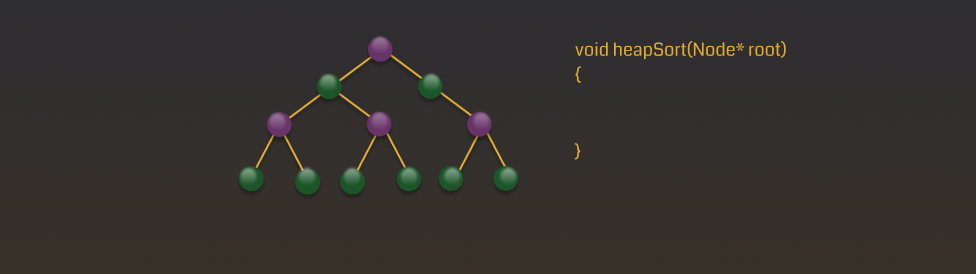
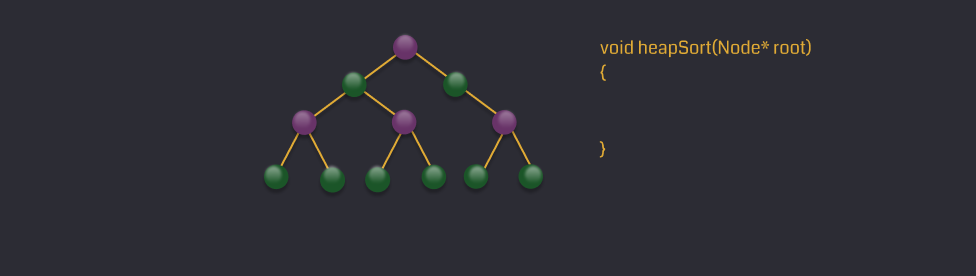
Removed gradient

Changed region(s): [[0.2459, 0.1168, 0.5533, 0.7007], [0.584, 0.146, 0.8299, 0.2044]]

diff --git a/_sass/_base.scss b/_sass/_base.scss
@@ -1,12 +1,7 @@
 body {
-	 background: #292B37; /* For browsers that do not support gradients */
-    background: -webkit-linear-gradient(#292B37, #473714); /* For Safari 5.1 to 6.0 */
-    background: -o-linear-gradient(#292B37, #473714); /* For Opera 11.1 to 12.0 */
-    background: -moz-linear-gradient(#292B37, #473714); /* For Firefox 3.6 to 15 */
-    background: linear-gradient(#292B37, #473714); /* Standard syntax */
+	background: #2C2C34; /* For browsers that do not support gradients */
 	font-family: 'Raleway', sans-serif;
 }
-
 
 .site-default {
 	text-align: center;
@@ -110,16 +105,15 @@ h3#intro-2 {
 	.button-wrapper #i1 {
 		border-radius: 40px;
 		padding: 8px 20px;
+		-webkit-appearance: none;
 	}
 
 	.button-wrapper #b2 {
 		font-size: 18px;
 		padding: 4px 48px;
+		-webkit-appearance: none;
 	}
 
-	.notice {
-		margin-bottom: 200px;
-	}
 	.notice img{
 		height: 20px;
 	}
@@ -147,8 +141,5 @@ h3#intro-2 {
 
   	img#landing-img {
 		width: 100%;
-	}
-	.notice {
-		margin-bottom: 400px;
 	}
 }

diff --git a/_sass/_layout.scss b/_sass/_layout.scss
@@ -46,3 +46,4 @@ table {
 	border-collapse: collapse;
 	border-spacing: 0;
 }
+
